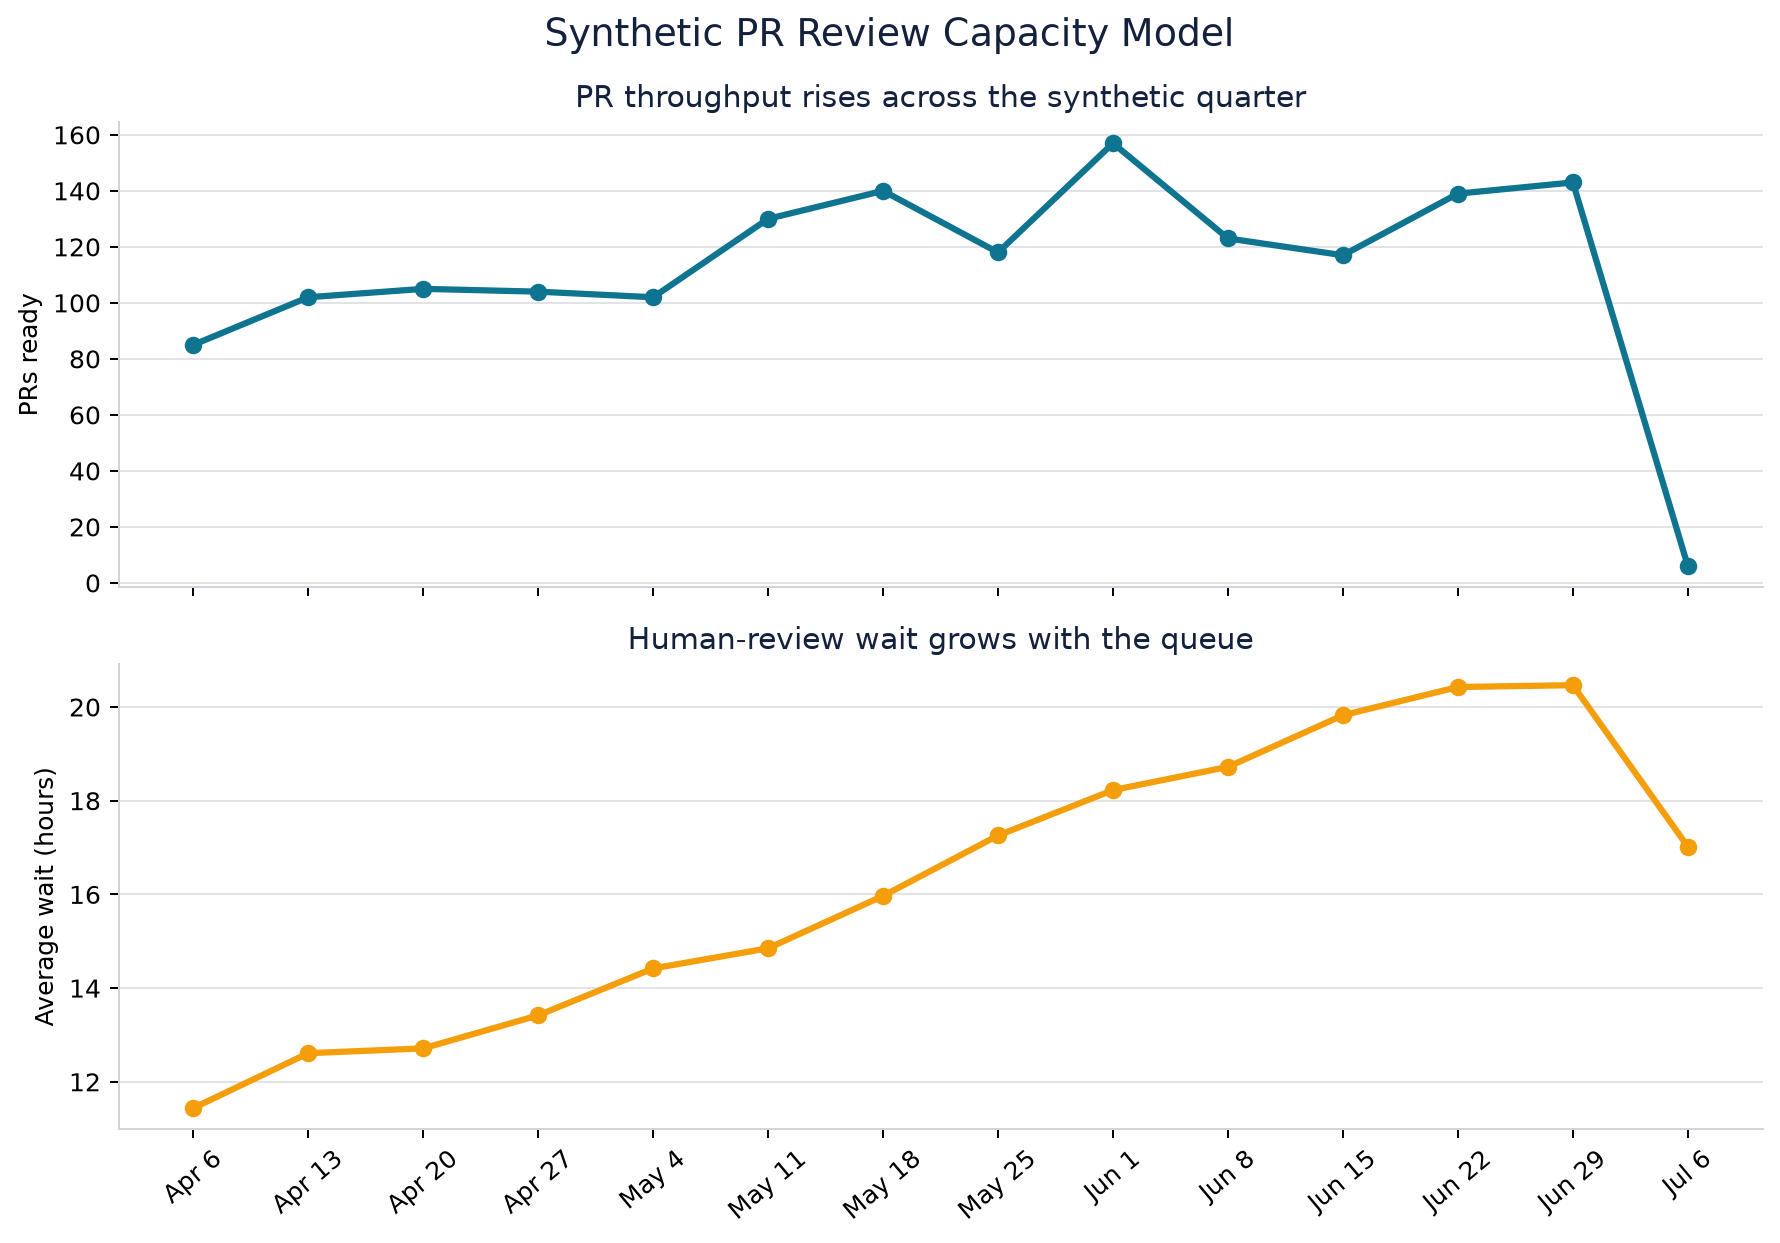
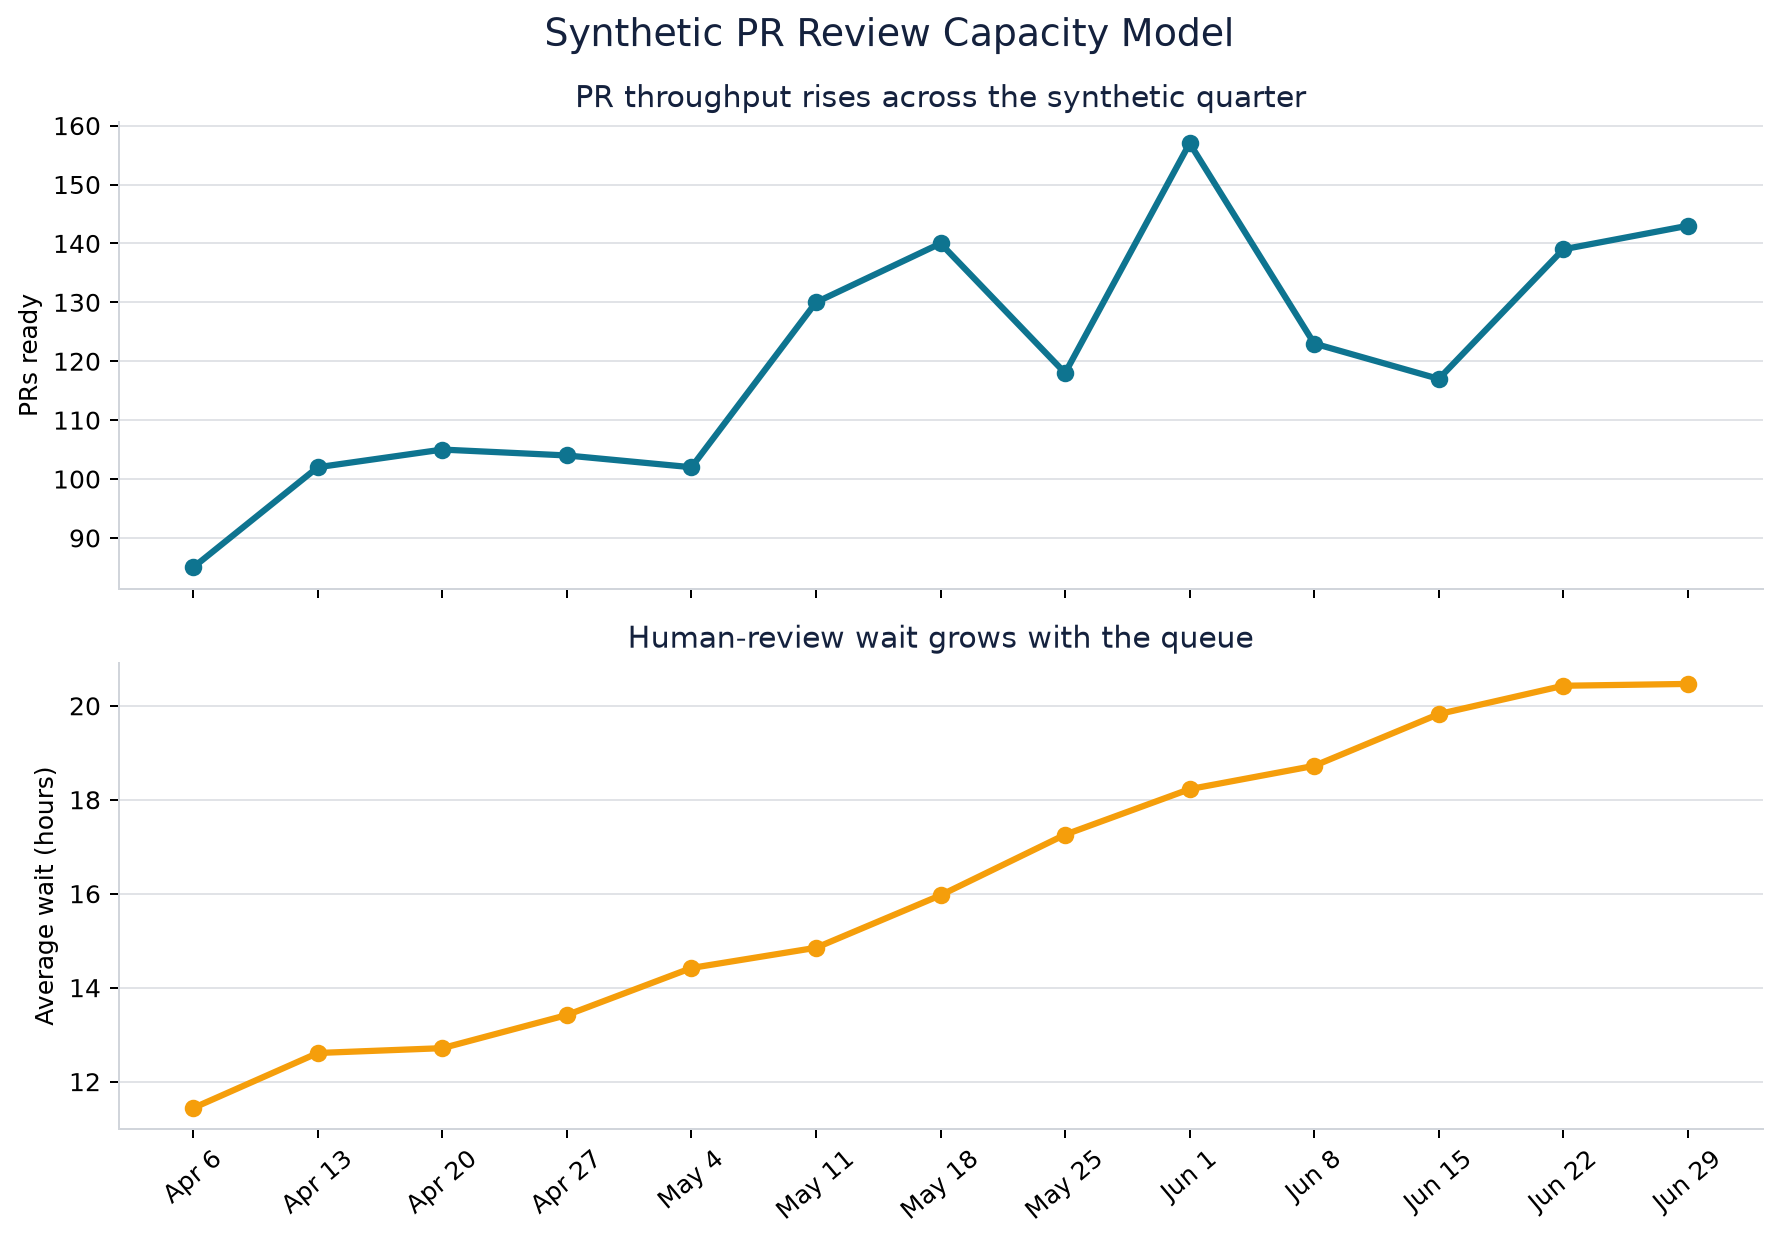
feat: fixes

diff --git a/analyze_pr_reviews.py b/analyze_pr_reviews.py
@@ -180,7 +180,7 @@ def headline_metrics(prs: pd.DataFrame, reviews: pd.DataFrame) -> pd.DataFrame:
         ("Average first-review wait", prs["review_wait_hours"].mean(), "hours"),
         ("Waiting over 24 hours", prs["wait_over_24h"].mean() * 100, "percent"),
         ("Median ready-to-merge", merged["ready_to_merge_hours"].median(), "hours"),
-        ("Top 20% reviewer share", top_20_share * 100, "percent"),
+        ("Top 20% share of review events", top_20_share * 100, "percent"),
         ("14-day rollback rate", merged["rollback"].mean() * 100, "percent"),
         ("Linked-incident rate", merged["linked_incident_flag"].mean() * 100, "percent"),
     ]
@@ -225,6 +225,7 @@ def segment_metrics(
                     "ready_to_merge_hours"
                 ].mean(),
                 "rollback_rate_pct": merged["rollback"].mean() * 100,
+                "merged_pr_count": len(merged),
             }
         )
 
@@ -315,7 +316,10 @@ def plot_segments(
         workload["average_review_wait_hours"],
         color=ORANGE,
     )
-    axes[1].set_title("Reviewer backlog predicts longer waits", color=NAVY)
+    axes[1].set_title(
+        "Reviewer backlog is associated with longer waits",
+        color=NAVY,
+    )
     axes[1].set_ylabel("Average wait (hours)")
     style_axis(axes[1])
 
@@ -392,6 +396,9 @@ def main() -> None:
 
     headlines = headline_metrics(prs, reviews)
     weekly = weekly_metrics(prs)
+    weekly = weekly[
+        weekly["week_start"] < pd.Timestamp("2026-07-06")
+    ].copy()
     by_size = segment_metrics(prs, "size_bucket", SIZE_ORDER)
     by_areas = segment_metrics(
         prs, "ownership_areas_touched", sorted(prs["ownership_areas_touched"].dropna().unique())